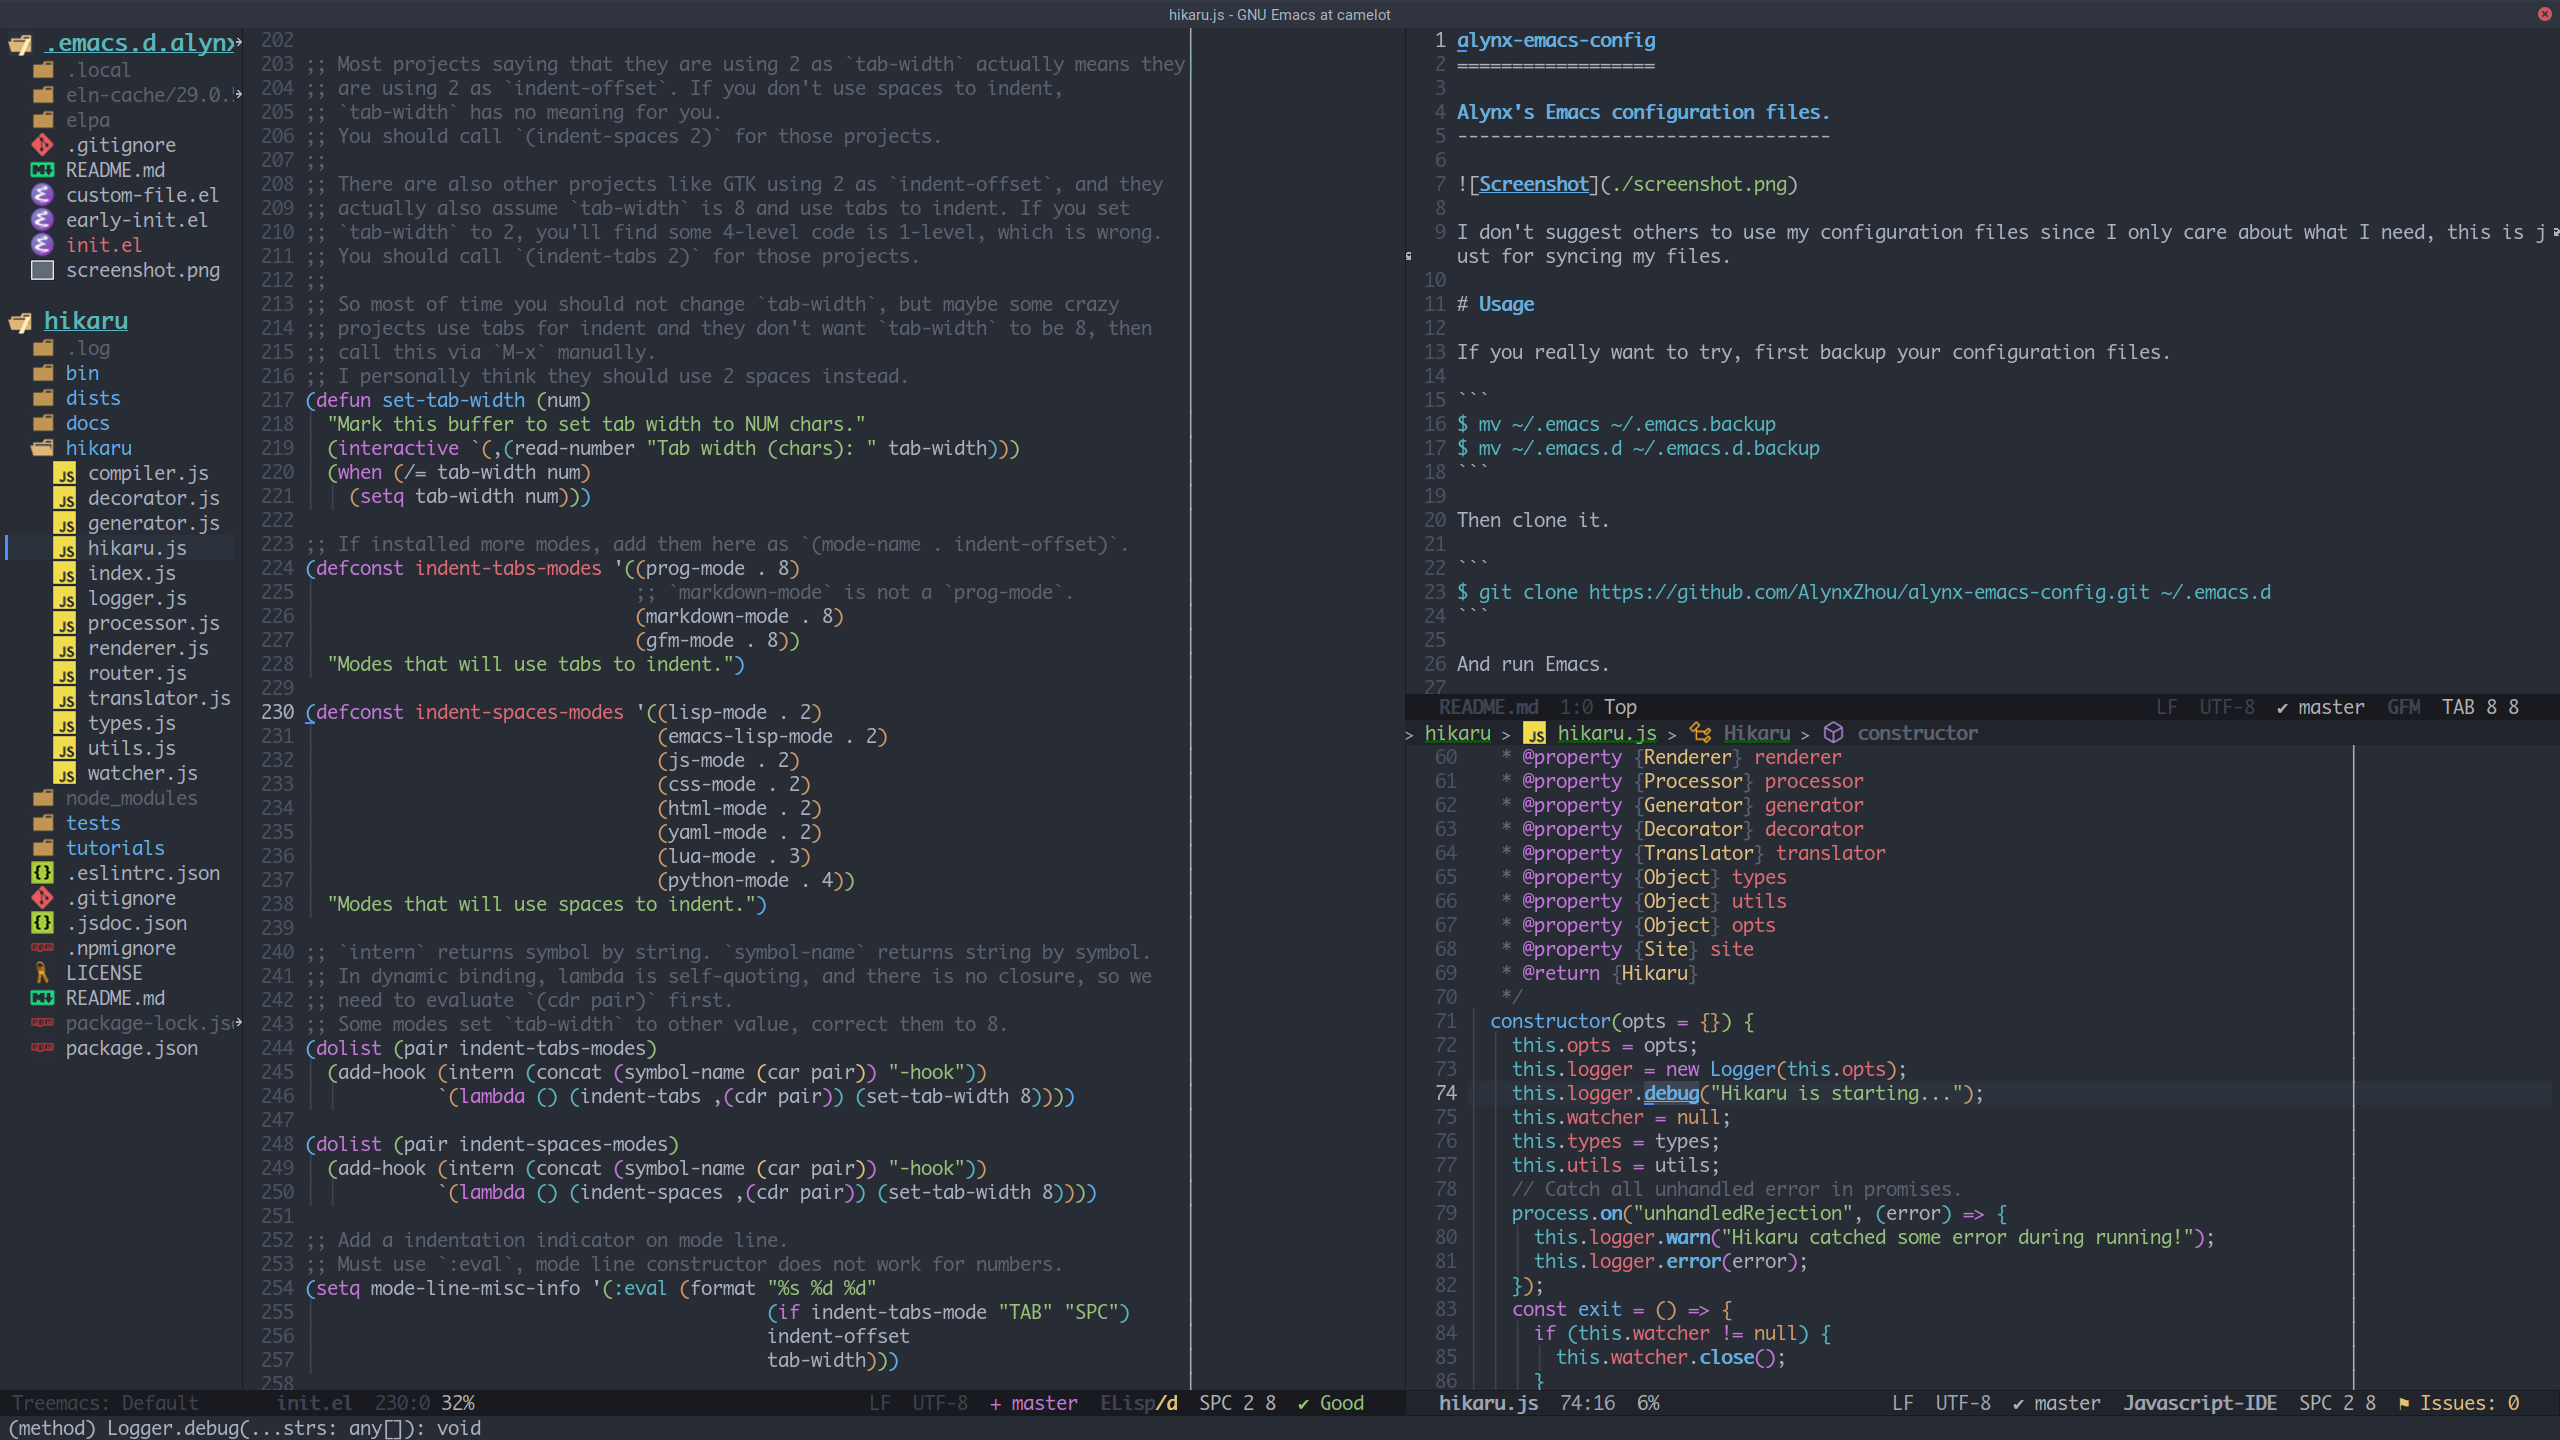
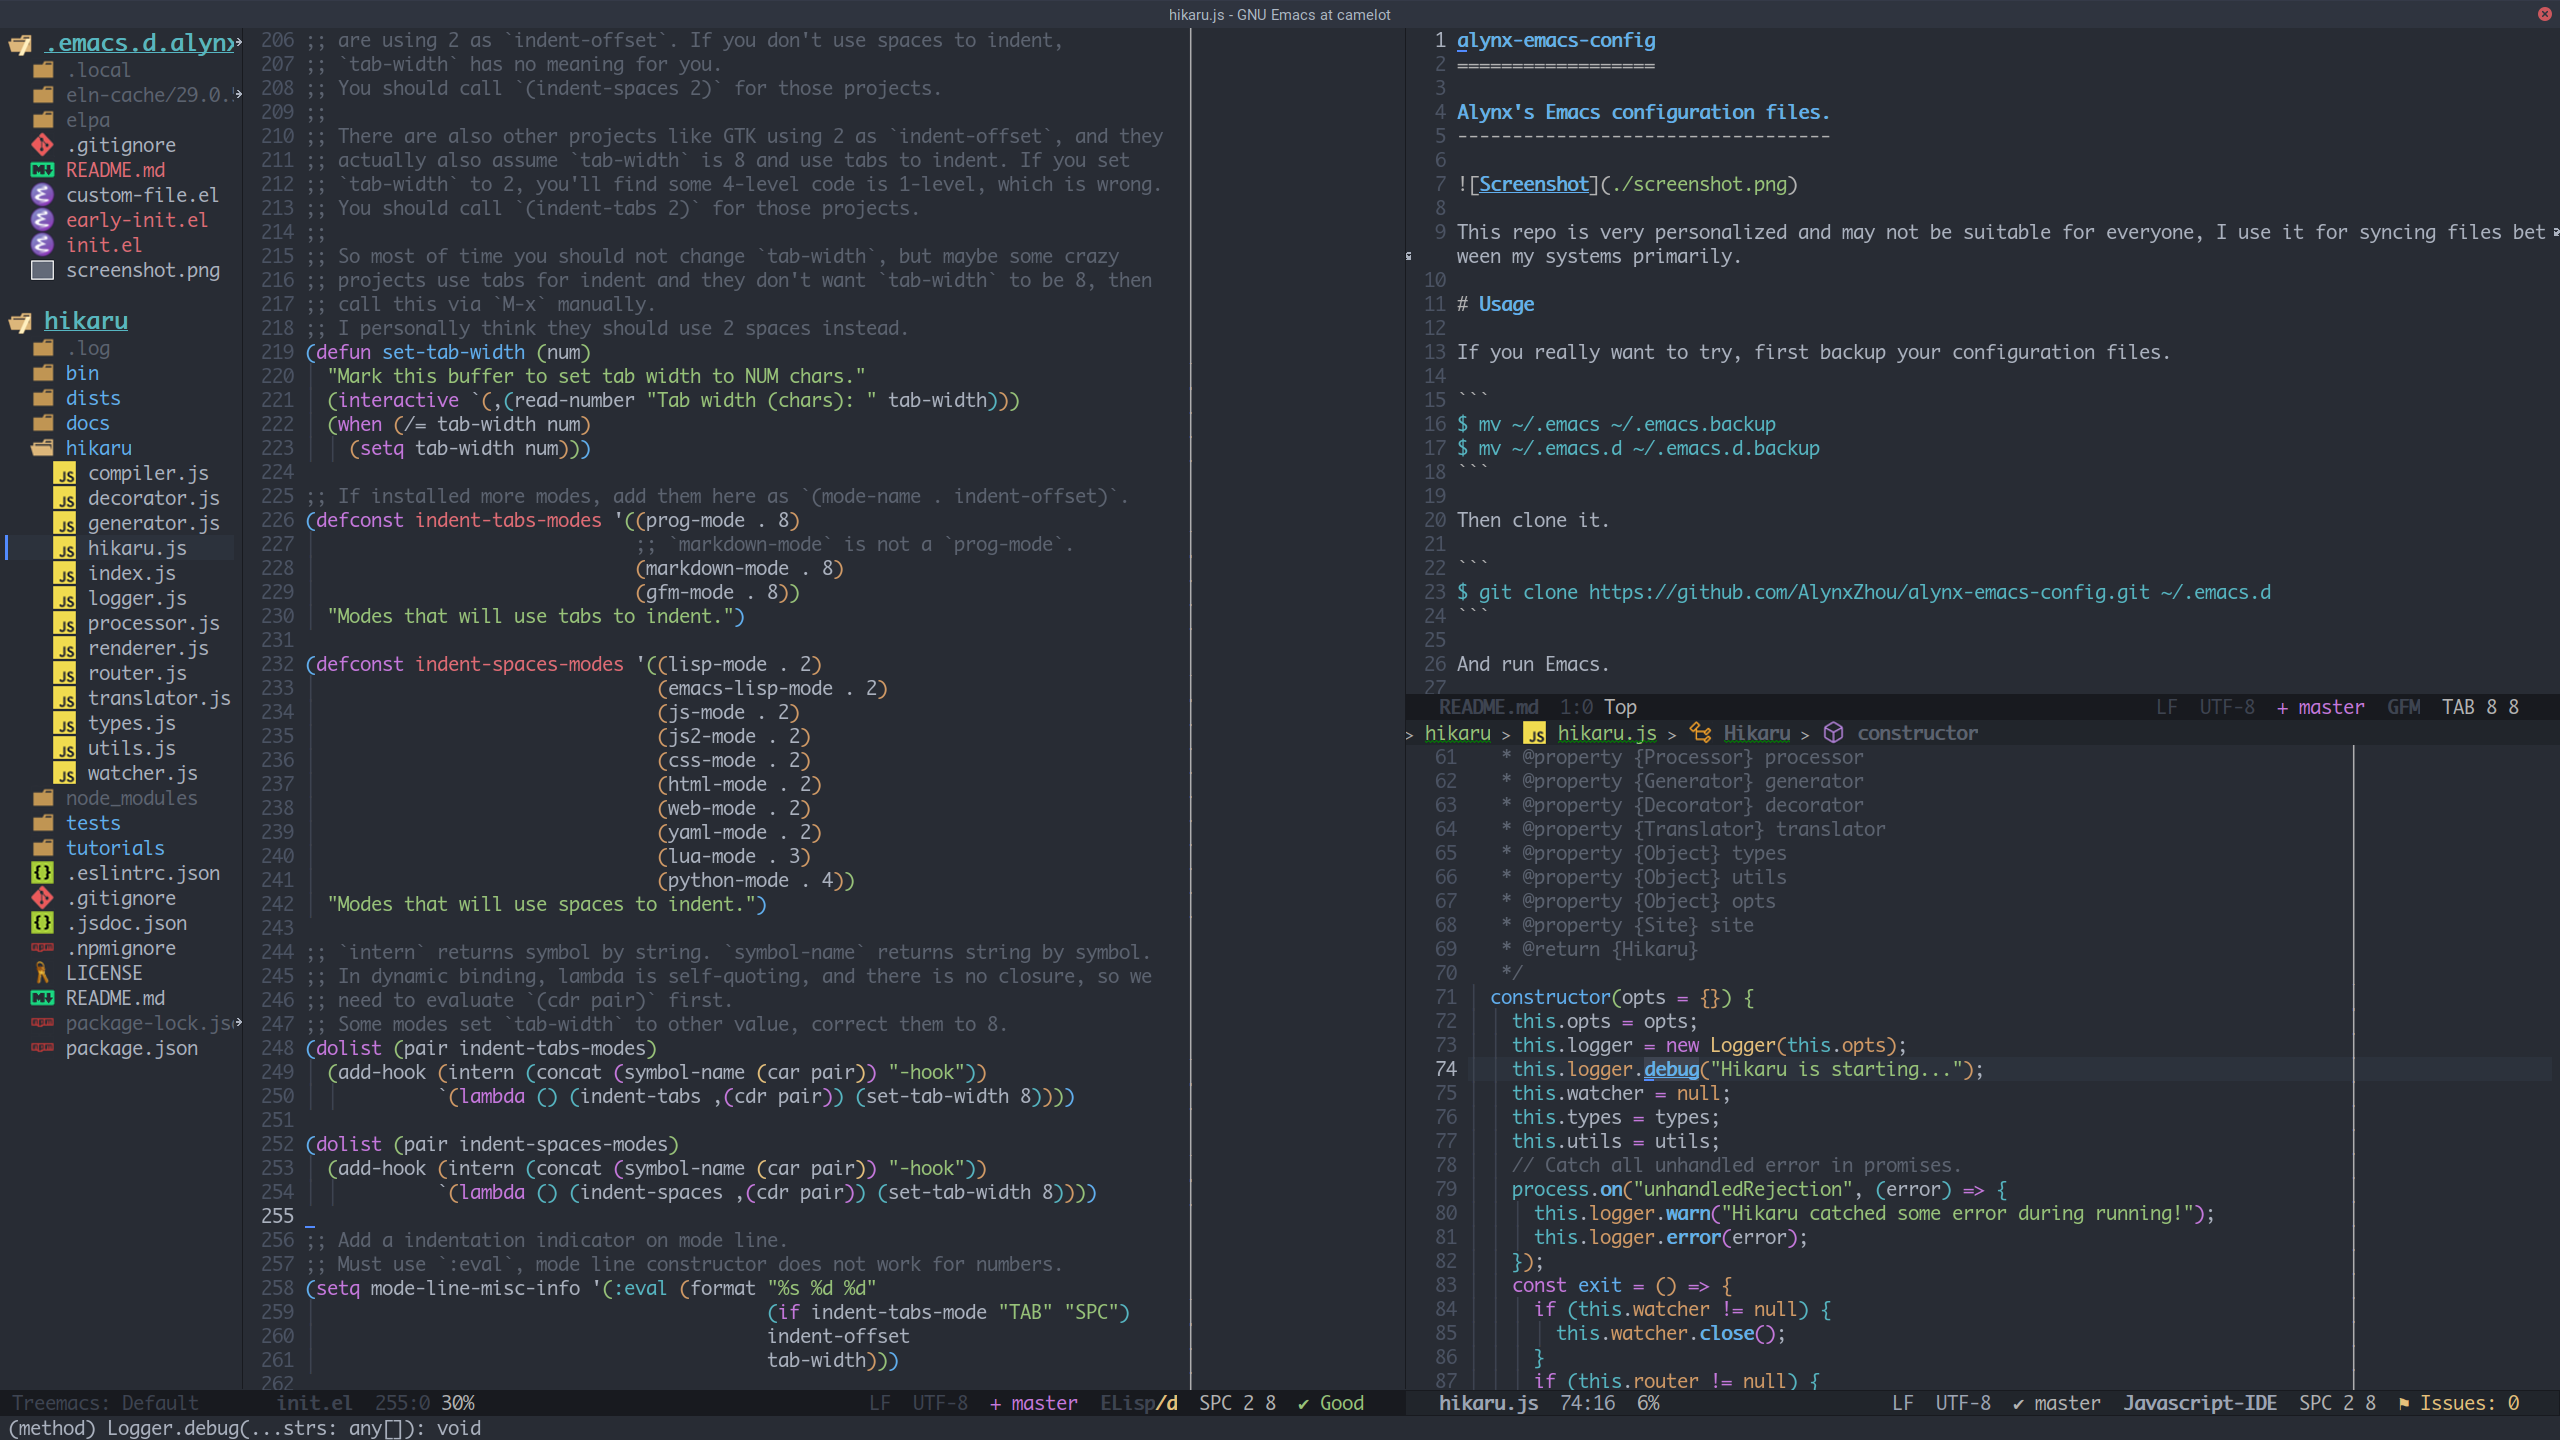
Updated package comments.

diff --git a/README.md b/README.md
@@ -6,7 +6,7 @@ Alynx's Emacs configuration files.
 
 ![Screenshot](./screenshot.png)
 
-I don't suggest others to use my configuration files since I only care about what I need, this is just for syncing my files.
+This repo is very personalized and may not be suitable for everyone, I use it for syncing files between my systems primarily.
 
 # Usage
 
@@ -25,7 +25,7 @@ $ git clone https://github.com/AlynxZhou/alynx-emacs-config.git ~/.emacs.d
 
 And run Emacs.
 
-I am using Emacs 29 with pgtk and native-comp from <https://aur.archlinux.org/packages/emacs-pgtk-native-comp-git>, if you are not using the latest version, this configuration may not work.
+I am using Emacs 29 with pgtk and native-comp from <https://aur.archlinux.org/packages/emacs-pgtk-native-comp-git>, if you are not using the latest version, it may not work.
 
 # Notice
 
